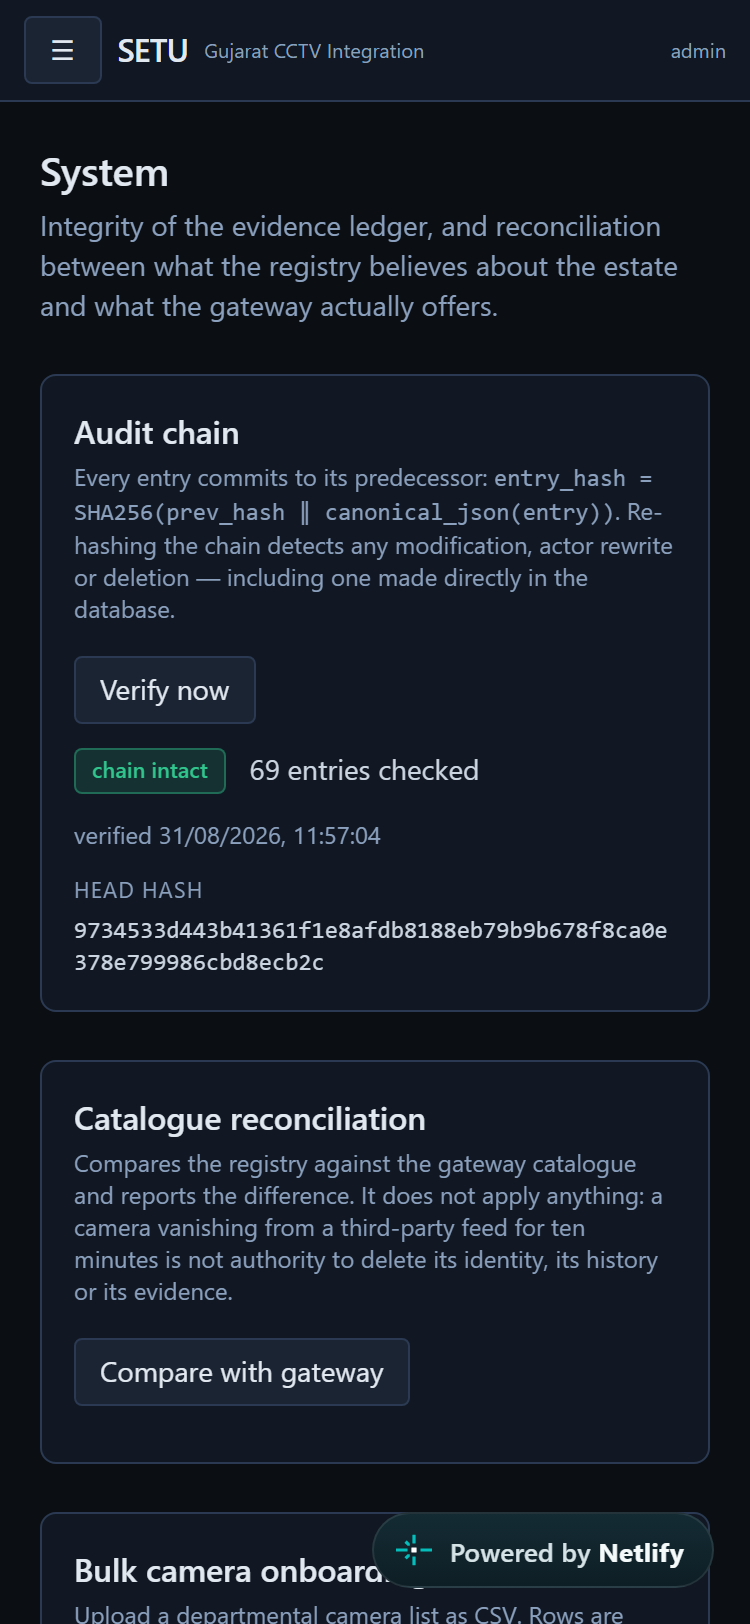
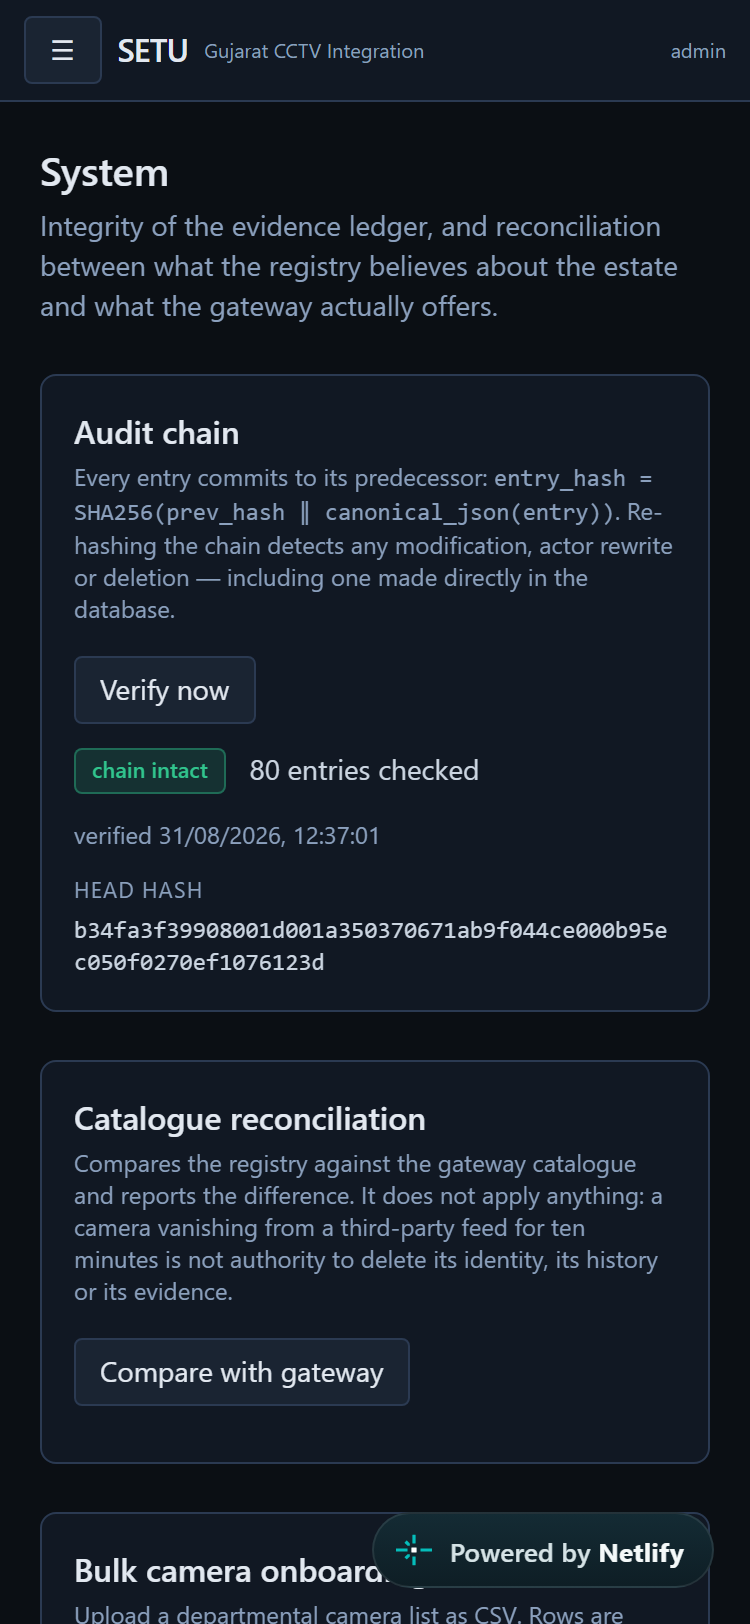
Close out: decide the own-feed clip, fix the credential instruction, final audit
SETU_GATEWAY_HOST is now set on Render. Confirmed by the watcher's error changing
from "no gateway configured" to a real 502 -- the deployed API is actively
reaching for the feed and being refused, which is a different and better state
than not knowing where it is. The organiser's origin is still down, so
gateway-ingest was skipped and the 30 Aug figures remain the most recent real
measurement everywhere they are quoted.

Verified the gateway card renders on the deployed console with the gateway
genuinely down: "government gateway unreachable, down for 19 minutes (since
12:18:50)". That was Task 1's acceptance test and it passes. Two copy bugs found
by reading it rather than by any check: "checked just now ago" is not a phrase,
and the explanatory line was truncating mid-word at "our own rec...".

The own-feed clip decision is made rather than deferred again: it stays. The 29.6%
accuracy figure is scored against 27 hand-annotated crops from this clip, so
replacing it seven days out would invalidate the annotation set and force
withdrawing a measured number in favour of an unmeasured one. The confusion it
caused was never about the clip's origin -- it was that nothing on screen named
the feed a detection came from, and that is fixed. Recorded with the reasoning and
with what to do if footage is filmed anyway, so it is a decision rather than
drift.

Corrected the credential instruction. Checklist item 14 told the reader to copy
[…]

diff --git a/frontend/src/pages/HealthPage.tsx b/frontend/src/pages/HealthPage.tsx
@@ -448,18 +448,26 @@ function GatewayCard({ status }: { status: GatewayStatus | undefined }) {
 
       <span className="text-muted">
         {status.last_checked_at
-          ? `checked ${since(status.last_checked_at)} ago`
+          ? // `since` already returns "just now" for anything under a minute, and
+            // "just now ago" is not a phrase. Only the durations take the suffix.
+            since(status.last_checked_at) === "just now"
+            ? "checked just now"
+            : `checked ${since(status.last_checked_at)} ago`
           : "awaiting first check"}
       </span>
 
       {status.last_success_at && !up && (
-        <span className="text-muted">last reached {since(status.last_success_at)} ago</span>
+        <span className="text-muted">
+          {since(status.last_success_at) === "just now"
+            ? "last reached moments ago"
+            : `last reached ${since(status.last_success_at)} ago`}
+        </span>
       )}
 
       <div className="flex-1" />
 
       {!up && !notYetChecked && (
-        <span className="text-muted max-w-md truncate" title={status.last_error ?? ""}>
+        <span className="text-muted max-w-md leading-snug" title={status.last_error ?? ""}>
           This is the organiser's feed, not this platform. Everything below is from our
           own records and is unaffected.
         </span>

diff --git a/docs/SUBMISSION_CHECKLIST.md b/docs/SUBMISSION_CHECKLIST.md
@@ -20,8 +20,8 @@ at upload time.
 
 | # | Deliverable | Artefact | State |
 |---|---|---|---|
-| 5 | Own-feed screen recording | — | ⏳ **Harshit** |
-| 6 | Government-feed screen recording | — | ⏳ **Harshit** — availability swings: 18 of 30 cameras on 2026-08-30, 25 of 30 on 2026-08-27. Camera 7 is the only one that has ever produced a legible plate; **check it is up before recording** |
+| 5 | Own-feed screen recording | — | ⏳ **Harshit** — record against the deployed console; the own-feed detections are the ones already in it |
+| 6 | Government-feed screen recording | — | ⏳ **Harshit** — availability swings: 25 of 30 cameras on 27 Aug, 18 of 30 on 30 Aug, **a total 502 on 31 Aug and still down at close-out**. Camera 7 is the only one that has ever produced a legible plate. **Check the Health page's gateway card before recording**; if the feed is dark, record the outage handling instead — `DEMO_RUNBOOK.md` §3 has the wording |
 
 Script for both, screen by screen with timings and what to say:
 `docs/DEMO_RUNBOOK.md`.
@@ -45,7 +45,7 @@ Script for both, screen by screen with timings and what to say:
 | 11 | Screenshots, all screens, real data | `docs/screenshots/` | ✅ 11 images covering all eight screens |
 | 12 | Screenshots of the deployed instance | `docs/screenshots/deployed/` | ✅ 8 images, captured against the container stack |
 | 13 | Hosted URL + test credentials | **Console: https://setu-gujrat.netlify.app** · API: https://setu-api-ai7z.onrender.com | ✅ **live**, verified 10/10 by `verify_deployment.py`. Deployed on Render + Netlify, not Railway — see `docs/adr/0004` addendum. Credentials in `deploy-secrets.env` (gitignored) |
-| 14 | Test accounts for the screening committee | `admin` (System Administrator) and `operator` (Control Room Operator) | ⚠ live values are in the gitignored `deploy-secrets.env`; copy them into `DEMO_RUNBOOK.md` §1 before submitting |
+| 14 | Test accounts for the screening committee | `admin` (System Administrator) and `operator` (Control Room Operator) | ✅ **live and verified.** Values are in the gitignored `deploy-secrets.env` and go on the **submission form**. They are deliberately *not* written into `DEMO_RUNBOOK.md` — that file is committed, and a working credential in a public repository is a secret leak whatever the reason for putting it there. `DEMO_RUNBOOK.md` §0 says where to find them |
 
 ## Evidence
 
@@ -64,25 +64,70 @@ Script for both, screen by screen with timings and what to say:
 ## Before upload
 
 - [x] ~~Annotate the crops and run `make accuracy`~~ — done; **spot-check the annotations**
-- [ ] Replace the third-party own-feed clip with our own stationary footage, then
-      `make demo-reset` and recapture screenshots
-- [ ] Record both demonstration videos
-- [ ] Deploy and record the live URL with credentials
-- [ ] Send `docs/SUPPORT_QUERY.md`
+- [x] **Own-feed clip — decided 2026-08-31: keep it.** See the decision below
+- [ ] **Record both demonstration videos** — human task, not startable by tooling
+- [x] ~~Deploy and record the live URL with credentials~~ — live at
+      https://setu-gujrat.netlify.app, verified 10/10. Credentials go on the submission
+      form, never into a committed file
+- [ ] **Send `docs/SUPPORT_QUERY.md`** — human task. More warranted than ever: the
+      gateway has been 502 on every endpoint since 31 Aug
 - [x] Secret scan — **done 2026-08-31**. CI's `gitleaks` full-history step is green on `42700d8`; `detect-secrets` also run locally over tracked files with all 18 findings verified as false positives and committed as `.secrets.baseline`. See `SECURITY.md`
-- [ ] Confirm the four limitations in `README.md` still read accurately
+- [x] ~~Confirm the limitations in `README.md` still read accurately~~ — re-checked
+      2026-08-31 against this session's measurements; see below
 
-## Four limitations to state up front
+---
 
-Stating them before a judge finds them is what makes the rest credible.
+## Decision — the own-feed clip stays (2026-08-31)
 
-1. The own-feed clip is third-party (CC BY 3.0, Karnataka) — plates read `KA…` not `GJ…`
-2. The four `REPLAY-` cameras are a replay harness: real inference and real evidence
-   photos, only the attributing camera is simulated
-3. **ANPR plate-level accuracy is 29.6%** (26.9% character error rate), up from 0.0%
-   once three measured defects were fixed. State the number and the story before a
-   judge tests it — finding them by measurement is the strongest evidence of rigour
-   in the submission. Resolution still bounds what is achievable
-4. The gateway media plane was down for most of the build; it recovered on
-   2026-08-27 with 25 of 30 cameras producing frames, and the estate publishes below
-   the resolution at which plates are legible — 3 legible plates in 9,158 frames
+This has been left open across several sessions. Closing it: **the Hubli–Dharwad
+Wikimedia clip is what ships**, unless someone films replacement footage before
+upload, in which case reopen this deliberately rather than by drift.
+
+**Why keep it.** It is CC BY 3.0 and correctly attributed in
+`data/own_feed/SOURCE.md`, so the licensing is clean. The confusion it caused — a
+reviewer reading own-feed detections as government-feed ones — was never really about
+the clip's origin; it was that nothing on screen said which feed a detection came
+from. That is now fixed at the source: every journey hop, alert card and camera panel
+carries a "Government feed" or "Own feed" badge, and cameras with no detections behind
+them are drawn hollow on the map.
+
+**What replacing it would cost, seven days out.** The 29.6% accuracy figure is scored
+against 27 hand-annotated crops from *this* clip. New footage invalidates that
+annotation set, so the headline accuracy number would have to be withdrawn and
+re-measured, or quoted against footage no longer in the repository. Trading a measured
+number for an unmeasured one this close to submission is the wrong direction.
+
+**What is honestly lost by keeping it.** Plates read `KA…`/`KL…` rather than `GJ…`,
+which a judge will notice immediately. That is limitation 1 in the README and should
+be said out loud in the demonstration rather than waited for.
+
+**If footage is filmed anyway:** `make demo-reset`, re-run `make ground-truth`,
+re-annotate, `make accuracy`, recapture screenshots — and update the accuracy figure
+everywhere it appears. Budget an afternoon, not an hour.
+
+## Limitations to state up front
+
+Six, not four — the list grew as measurement found more. They match `README.md`
+exactly; a judge who reads both and sees two different numbers trusts neither.
+Re-checked **2026-08-31**.
+
+1. **The own-feed clip is third-party** (CC BY 3.0 Wikimedia, Karnataka) — plates read
+   `KA…`/`KL…`, not `GJ…`. Kept deliberately; see the decision above
+2. **The four `REPLAY-` cameras are a replay harness** — real inference and real
+   evidence photos, only the attributing camera is simulated, and the prefix is visible
+   in the console
+3. **ANPR plate-level accuracy is 29.6%** precision and recall, 26.9% character error
+   rate, over 27 annotated crops. It was 0.0% until three defects were found *by
+   measurement*. Say the number and the story before a judge tests it
+4. **The government estate publishes below the resolution ANPR needs** — 9,158 frames
+   across 25 live cameras yielded three human-legible plates. This bounds what any
+   recogniser could achieve here, and is the empirical case for processing at the edge
+5. **The gateway is intermittent, and getting worse.** 25 of 30 cameras on 27 Aug,
+   18 of 30 on 30 Aug, **a Cloudflare 502 on every endpoint on 31 Aug and still down**.
+   Valid registrations across those sweeps: 2, then 0. The pipeline was identical; the
+   feed was not. The Health page now shows a live gateway card with the outage start
+   time, so this is visible rather than mistaken for our own failure
+6. **The deployed instance carries own-feed detections only.** Live, 10/10 verified,
+   but every detection in it came from our own footage — the gateway has never yielded
+   a legible plate during a run against the deployed database. The console labels the
+   source of every hop and alert, so this is stated rather than left to be assumed

diff --git a/docs/COMPLETENESS_AUDIT.md b/docs/COMPLETENESS_AUDIT.md
@@ -186,3 +186,112 @@ Deployed database queried directly; `verify_deployment.py` with `--api-origin`;
 `ground_truth.py score` re-run; `responsive_audit.mjs` at 375/390/768/1024 against the
 live site; gateway probed once; `detect-secrets` over tracked files; CI job status read
 from the Actions API.
+
+
+---
+
+# Close-out — 2026-08-31
+
+Final engineering pass. The two entries above stand; this is the definitive statement
+of what this submission is and is not, written to be read by someone who was not here.
+
+## What SETU is
+
+One web platform that federates a heterogeneous camera estate. A judge supplies a
+registration number and sees that vehicle's route across the network on a map, with
+timestamps, evidence photographs and honest gaps where it was not seen. A watchlisted
+vehicle appearing on a feed raises an alert within seconds.
+
+Live at **https://setu-gujrat.netlify.app** (Render API, Netlify console, Render
+Postgres in Singapore), passing **10 of 10** deployment checks at close-out.
+
+| | |
+|---|---:|
+| Backend tests | **209 passing**, 42 skipped without Postgres |
+| `mypy --strict` | clean, 51 source files |
+| `ruff` / `ruff format` | clean, 101 files |
+| Console screens | **9**, all on real endpoints |
+| Responsive | 9 pages × 375/390/768/1024 px, no overflow, clipping or nav dominance |
+| Deployment checks | **10 / 10** |
+| Secret scan | CI `gitleaks` full history green; `detect-secrets` baseline committed |
+
+## What is genuinely real
+
+Every detection is actual ONNX inference over real road footage — YOLOv9-t detection,
+CCT recognition, both MIT. No fixtures, no seeded rows pretending to be output. The
+evidence crops are the pixels the recogniser actually read, which is why some are
+visibly wrong.
+
+Row-level security is enforced in Postgres, not just in the application: nine tests
+issue raw SQL that bypasses the application entirely, and `setu_app` is verified
+`rolsuper=false, rolbypassrls=false` **on the deployed database**. The audit ledger is
+hash-chained and append-only — the application holds no UPDATE grant on it. Evidence
+exports carry Ed25519 detached signatures verifiable without SETU. Evidence images are
+served only through short-lived signed URLs.
+
+`detection` is a real TimescaleDB hypertable on the deployed instance.
+
+## What is not
+
+**The government gateway is down and has been all day.** Cloudflare 502 on every
+endpoint — the organiser's origin, not their edge. Measured across four days:
+
+| Date | Cameras producing frames | Valid registrations |
+|---|---:|---:|
+| 2026-08-27 | 25 of 30 | 2 |
+| 2026-08-30 | 18 of 30 | 0 |
+| 2026-08-31 | **0 of 30** | — |
+
+`SETU_GATEWAY_HOST` **is** now set on Render — confirmed today, the watcher's error
+changed from "no gateway configured" to a real 502, which means the deployed API is
+actively reaching for the feed and being refused. The configuration problem is fixed;
+the dependency is not, and cannot be from here.
+
+**The deployed database therefore holds own-feed detections only.** Twenty detections,
+all from the bundled clip via the four REPLAY cameras. Zero from the gateway. The
+console labels the source of every hop, alert and camera, and draws cameras with no
+detections hollow, so this is visible rather than inferred.
+
+**ANPR accuracy is 29.6%** precision and recall, 26.9% character error rate, over 27
+hand-annotated crops. It was 0.0% until three defects were found by measurement: a
+recogniser with nine classification heads against ten-character Indian plates, a
+tracker that never associated anything so multi-frame fusion never ran, and fusion
+voting misaligned characters against each other. The ceiling is what the estate
+publishes — 9,158 frames across 25 live cameras yielded three human-legible plates.
+
+**Four REPLAY cameras are a replay harness.** Real inference, real evidence photos;
+only *which camera saw it* is simulated. The prefix is visible in the console.
+
+**Speed-based flagging is not built.** It needs genuine cross-camera timestamps, and
+the only multi-camera data available is that harness. A speed alert computed from
+simulated attribution would be a fabricated capability presented as a real one.
+
+**The own-feed clip is third-party** — CC BY 3.0 Wikimedia, Hubli–Dharwad, so plates
+read `KA…` not `GJ…`. Decided today: it stays. Replacing it seven days out would
+invalidate the 27-crop annotation set the 29.6% figure is scored against, trading a
+measured number for an unmeasured one. The confusion it caused was never about the
+clip's origin but about nothing on screen naming the feed, and that is fixed.
+
+## Human tasks, genuinely outstanding
+
+Neither is startable by tooling, and neither is ticked.
+
+- **Both demonstration videos.** `DEMO_RUNBOOK.md` has the screen-by-screen script;
+  §3 covers what to say if the gateway is dark, which today it would be.
+- **Send `docs/SUPPORT_QUERY.md`.** More warranted than when it was written.
+
+Also worth a human: spot-check the ANPR annotations, since one person read all 27
+crops.
+
+## The thing this project got right
+
+Every headline number here was produced by running something, and three of them got
+*worse* when measured properly. The sub-stream throughput figure was withdrawn because
+the recogniser reads nothing at that resolution. The 8/8 feed-contract pass was found
+to be conditional on which camera the harness happened to pick. A responsive audit
+written this week passed every page while the GIS screen had no map on it at all.
+
+Each of those was caught by measurement and each is written down, here and in
+`DISCOVERY.md` and `HLD_RECONCILIATION.md`, with the date and the number. A reviewer
+who goes looking for the weak points will find them already documented — which is the
+only reason to trust the parts that are strong.

diff --git a/docs/DEMO_RUNBOOK.md b/docs/DEMO_RUNBOOK.md
@@ -5,6 +5,36 @@ has been in for most of development and the state to plan for on the day.
 
 ---
 
+## 0. The live deployment
+
+Everything below describes running SETU locally. If you only need to *show* it, the
+deployed instance is already running and already seeded.
+
+| | |
+|---|---|
+| **Console** | https://setu-gujrat.netlify.app |
+| **API docs** | https://setu-api-ai7z.onrender.com/docs |
+| **Accounts** | `admin` (System Administrator) · `operator` (Control Room Operator) |
+| **Passwords** | in the gitignored `deploy-secrets.env` at the repository root |
+
+**The passwords are deliberately not written into this file.** This document is
+committed and pushed; a working credential in a public repository is a secret leak
+regardless of why it was put there. They belong in two places only: the submission
+form, and `deploy-secrets.env` on a team machine. `cat deploy-secrets.env` when you
+need them.
+
+Two things to know before clicking:
+
+- **The first request after a quiet spell takes about a minute.** Render's free tier
+  sleeps after 15 minutes idle. An UptimeRobot monitor pings `/healthz` every 5
+  minutes to prevent it, but open the link yourself once before a demonstration
+  rather than discovering it in front of an audience.
+- **Use `operator` for at least one screen.** It cannot add watchlist entries,
+  onboard cameras or run catalogue reconciliation, and showing that refusal is worth
+  more than describing the role model.
+
+---
+
 ## 1. Start from a clean checkout
 
 ```bash
